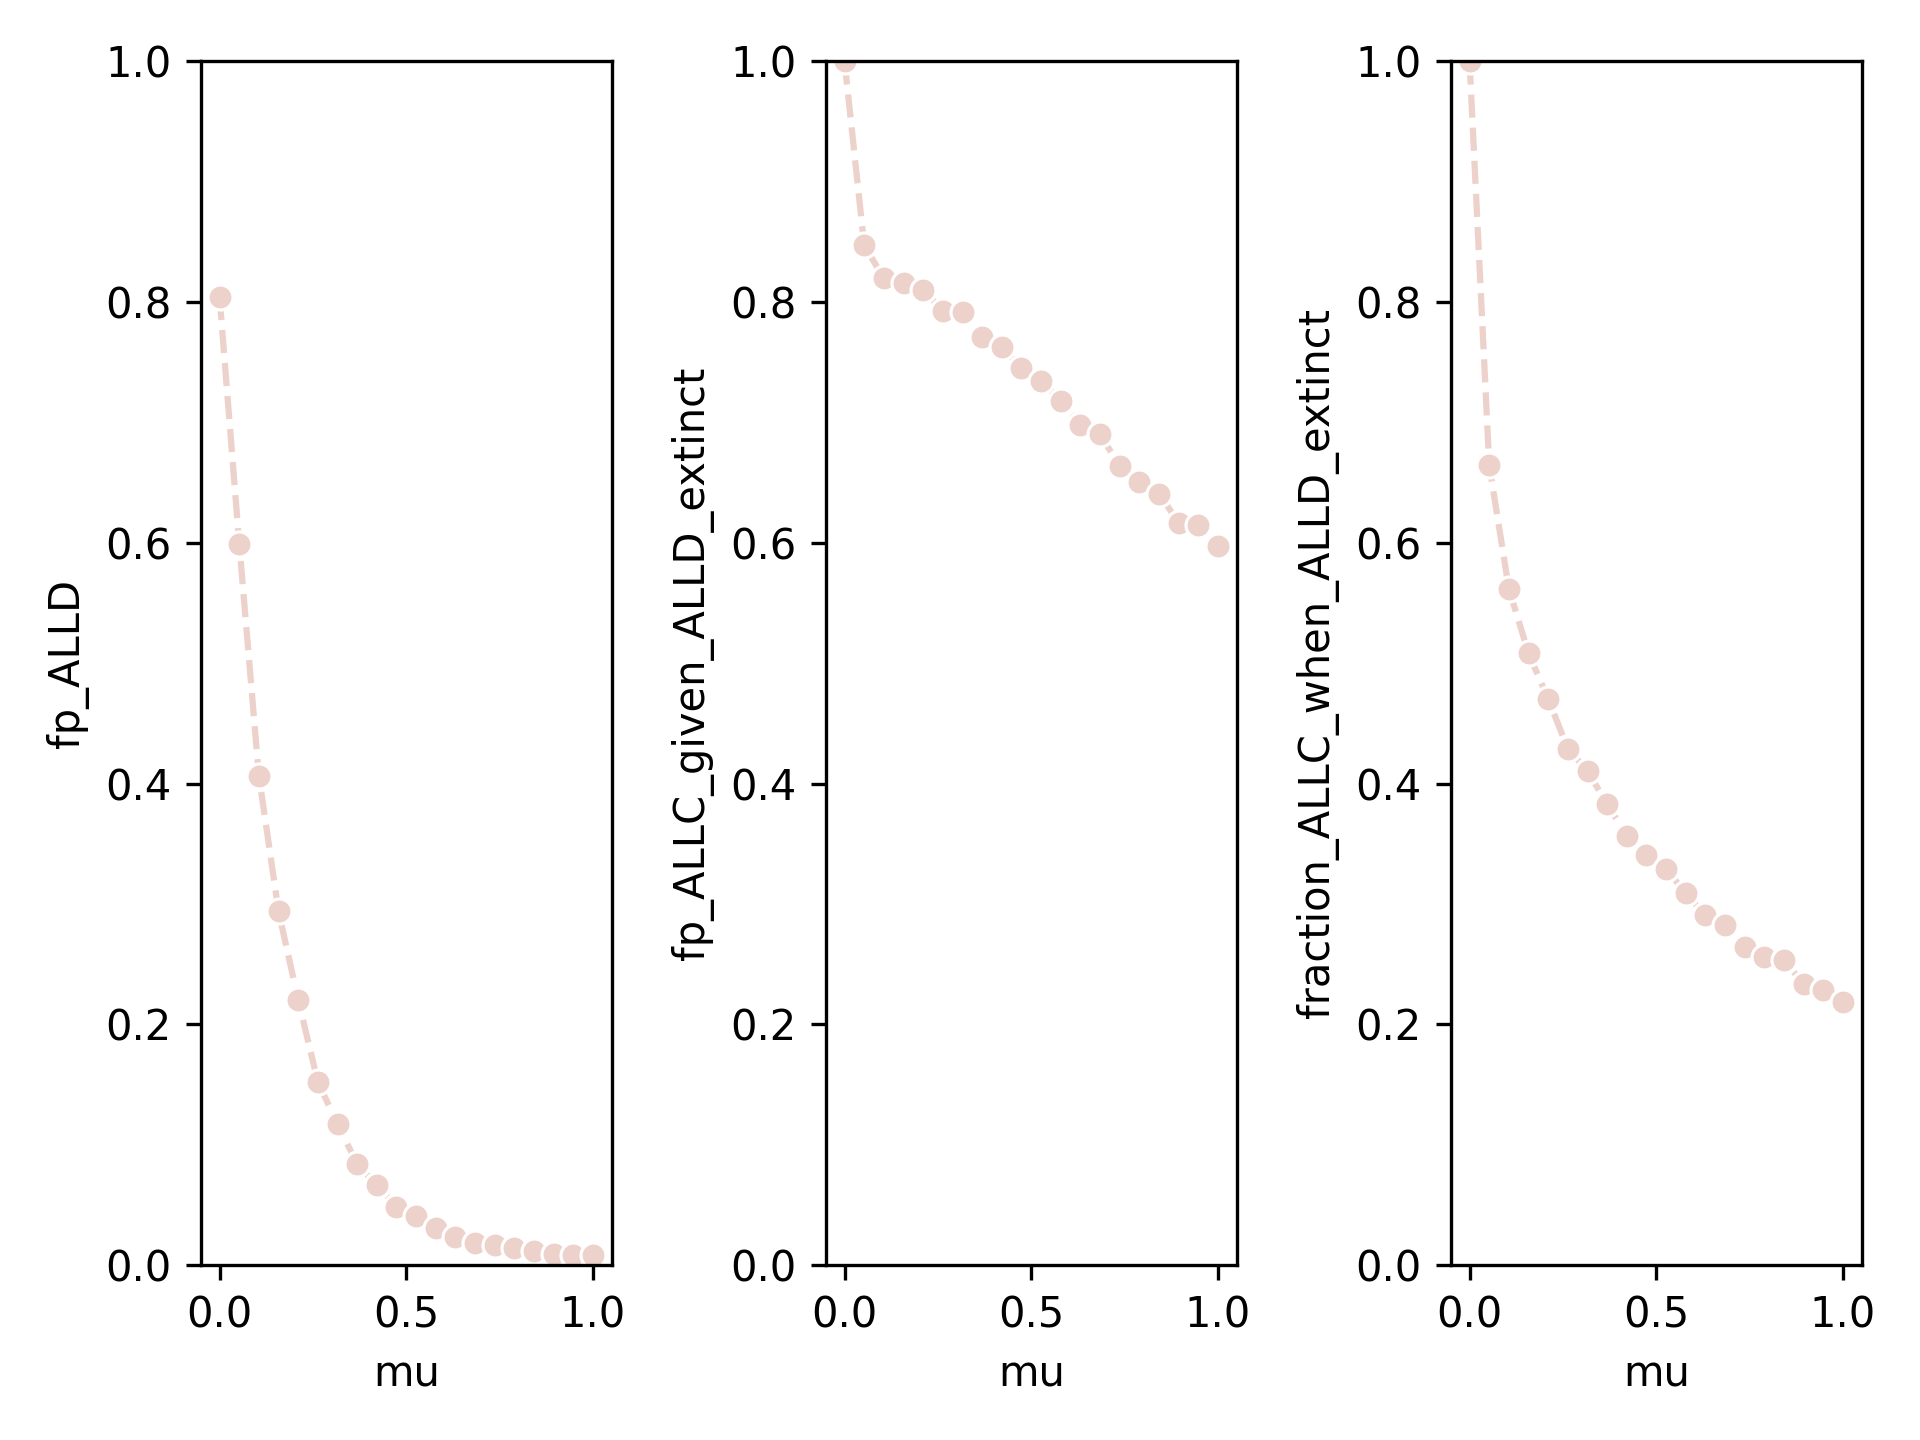
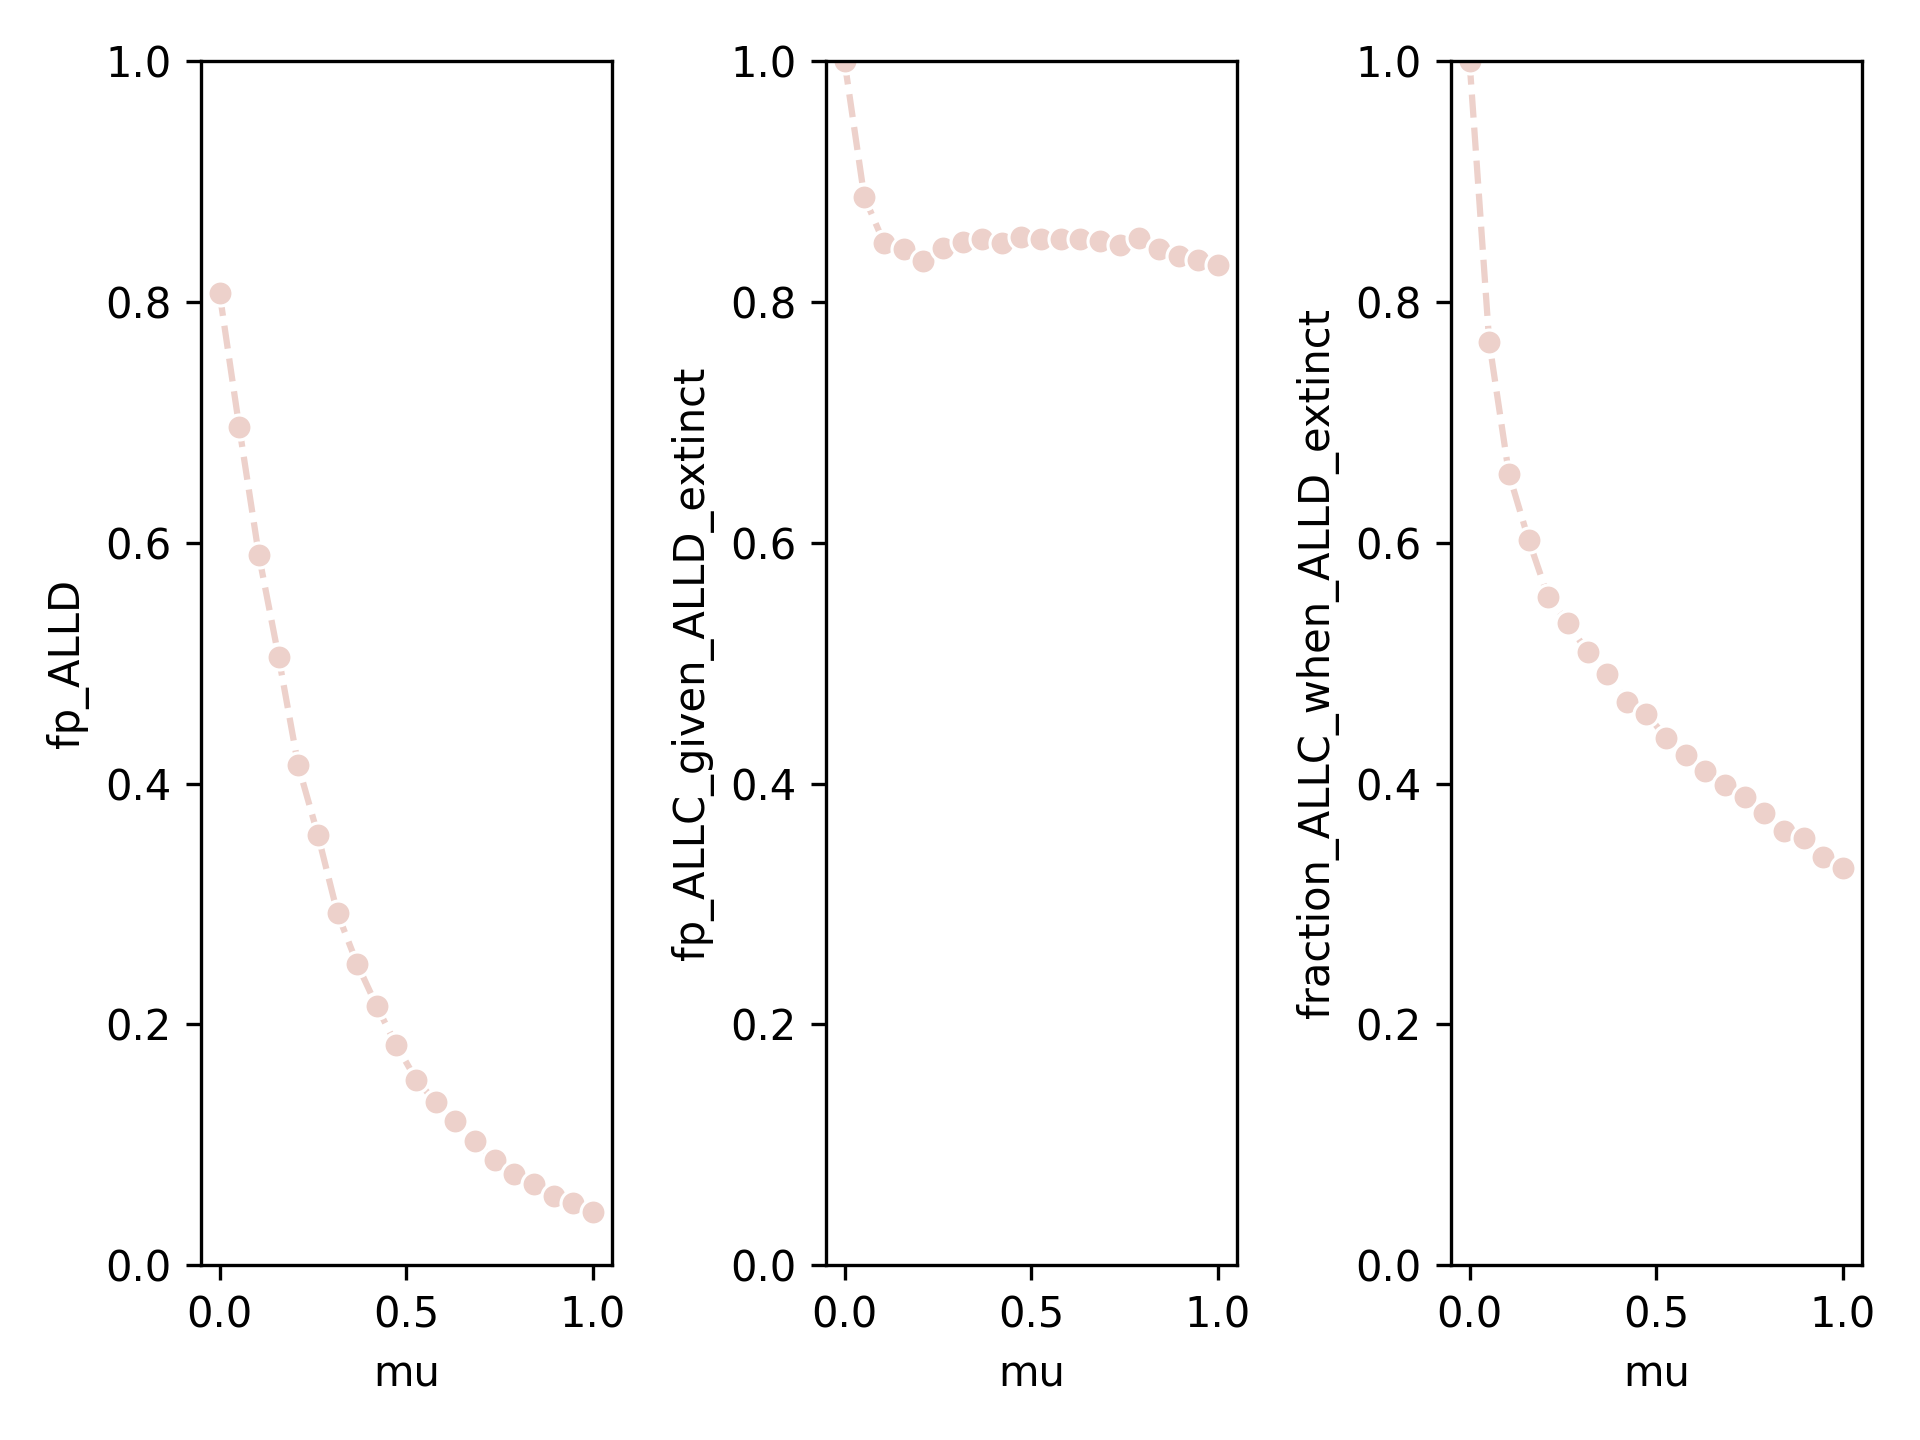
fixed pc dynamics

diff --git a/martins-dream.py b/martins-dream.py
@@ -96,9 +96,11 @@ def pairwise_comparison(N: int, nALLC: int, nTFT: int, M: Payoffs, mu: float, ba
   x = F_i - F_j
   theta = 1/(1+np.exp(-x)) 
   assert 0 <= theta <= 1, theta
-  new_strategy = random.choices([strategy_role_model, strategy_picked_for_update], weights=[theta, 1-theta])[0]
 
-  new_strategy = possibly_mutate(new_strategy, N, nTFT, nALLD, mu, back_mu)
+  new_strategy = strategy_picked_for_update
+  if random.random() < theta:
+    new_strategy = possibly_mutate(strategy_role_model, N, nTFT, nALLD, mu, back_mu)
+
   return (
     nALLC + int(new_strategy == Strategy.AlwaysCooperate) - int(strategy_picked_for_update == Strategy.AlwaysCooperate),
     nTFT + int(new_strategy == Strategy.TitForTat) - int(strategy_picked_for_update == Strategy.TitForTat),
